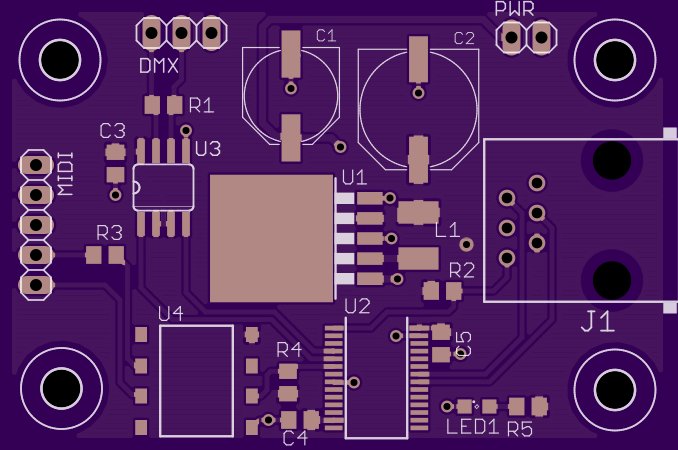
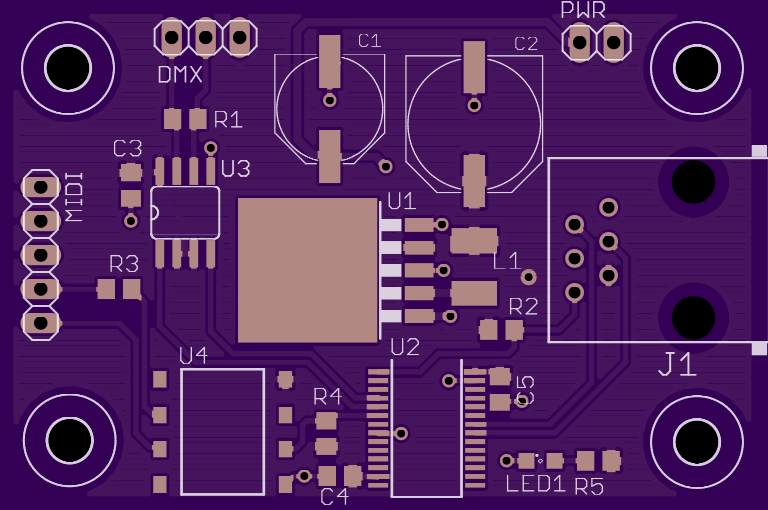
Add max_width and max_height arguments to

diff --git a/gerber/render/cairo_backend.py b/gerber/render/cairo_backend.py
@@ -97,10 +97,29 @@ class GerberCairoContext(GerberContext):
             self.dump(filename, verbose)
 
     def render_layers(self, layers, filename, theme=THEMES['default'],
-                      verbose=False):
+                      verbose=False, max_width=800, max_height=600):
         """ Render a set of layers
         """
+        # Calculate scale parameter
+        x_range = [10000, -10000]
+        y_range = [10000, -10000]
+        for layer in layers:
+            bounds = layer.bounds
+            if bounds is not None:
+                layer_x, layer_y = bounds
+                x_range[0] = min(x_range[0], layer_x[0])
+                x_range[1] = max(x_range[1], layer_x[1])
+                y_range[0] = min(y_range[0], layer_y[0])
+                y_range[1] = max(y_range[1], layer_y[1])
+        width = x_range[1] - x_range[0]
+        height = y_range[1] - y_range[0]
+
+        scale = math.floor(min(float(max_width)/width, float(max_height)/height))
+        self.scale = (scale, scale)
+
         self.clear()
+
+        # Render layers
         bgsettings = theme['background']
         for layer in layers:
             settings = theme.get(layer.layer_class, RenderSettings())
@@ -293,7 +312,7 @@ class GerberCairoContext(GerberContext):
                              angle2=(2 * math.pi))
                 mask.ctx.fill()
 
-                if hasattr(circle, 'hole_diameter') and circle.hole_diameter > 0:
+                if hasattr(circle, 'hole_diameter') and circle.hole_diameter is not None and circle.hole_diameter > 0:
                     mask.ctx.set_operator(cairo.OPERATOR_CLEAR)
                     mask.ctx.arc(center[0],
                                  center[1],
@@ -303,6 +322,7 @@ class GerberCairoContext(GerberContext):
                     mask.ctx.fill()
 
                 if (hasattr(circle, 'hole_width') and hasattr(circle, 'hole_height')
+                        and circle.hole_width is not None and circle.hole_height is not None
                         and circle.hole_width > 0 and circle.hole_height > 0):
                     mask.ctx.set_operator(cairo.OPERATOR_CLEAR
                                           if circle.level_polarity == 'dark'

diff --git a/examples/pcb_example.py b/examples/pcb_example.py
@@ -37,16 +37,16 @@ pcb = PCB.from_directory(GERBER_FOLDER)
 # Render PCB top view
 ctx.render_layers(pcb.top_layers,
                   os.path.join(os.path.dirname(__file__), 'pcb_top.png',),
-                  theme.THEMES['OSH Park'])
+                  theme.THEMES['OSH Park'], max_width=800, max_height=600)
 
 # Render PCB bottom view
 ctx.render_layers(pcb.bottom_layers,
                   os.path.join(os.path.dirname(__file__), 'pcb_bottom.png'),
-                  theme.THEMES['OSH Park'])
+                  theme.THEMES['OSH Park'], max_width=800, max_height=600)
 
 # Render copper layers only
 ctx.render_layers(pcb.copper_layers + pcb.drill_layers,
                   os.path.join(os.path.dirname(__file__),
                                'pcb_transparent_copper.png'),
-                  theme.THEMES['Transparent Copper'])
+                  theme.THEMES['Transparent Copper'], max_width=800, max_height=600)
 
